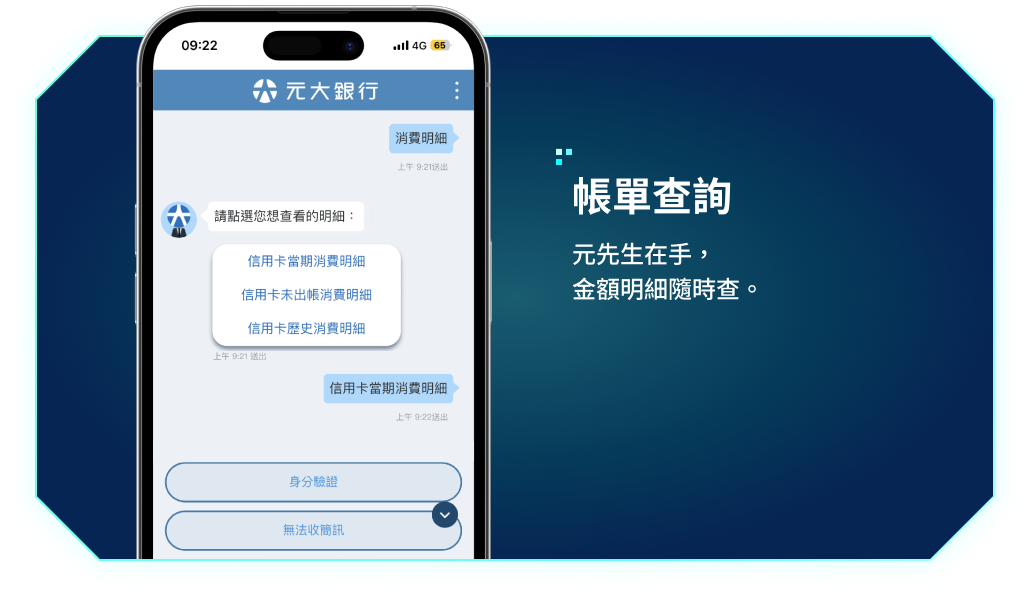
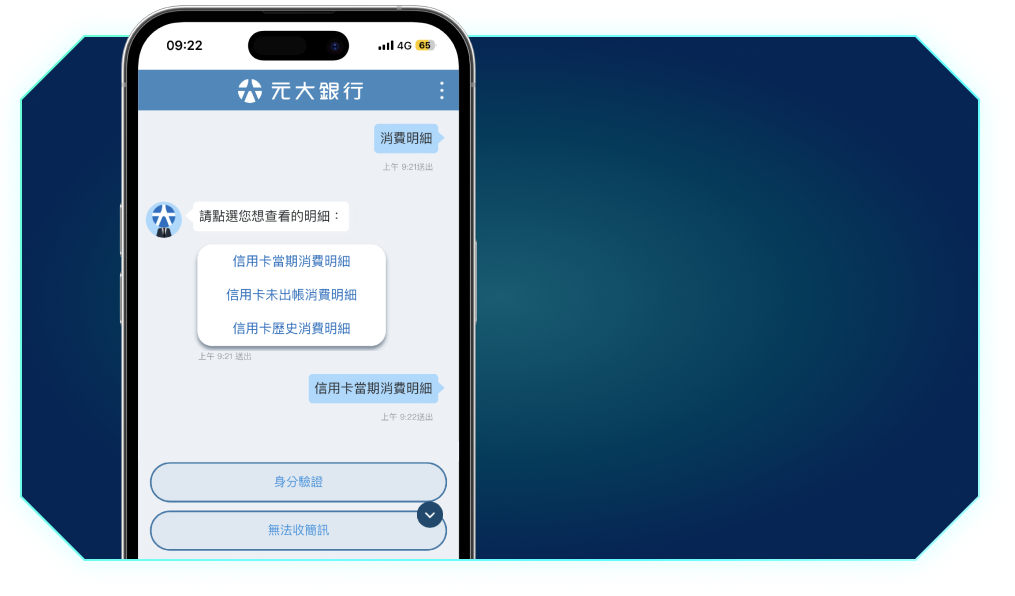
更新
解決banner的對齊問題

diff --git a/sample04/assets/css/style.css b/sample04/assets/css/style.css
@@ -2,13 +2,14 @@
 
 .banner{
     width:100%;
-    height:100vh;
-    background-image:url(../images/banner/KV\ Background_1440.png);
-    background-size: cover;
+    height:60vw;
+    background-image:url(../images/banner/KV\ Background_1440b.png);
+    background-size: 100% 100%;
     background-repeat: no-repeat;
     background-position: center;
     display: flex;
 }
+
 .aaa{
     height:300px;
     /* background-color: #C30; */
@@ -18,7 +19,7 @@
     background-color: #007fe0;
 }
 .block_agent{
-    display: flex;
+    display: none;
     justify-content: center;
     position: absolute;
     left: 50%;
@@ -71,8 +72,8 @@
     background-size: contain;
     background-repeat: no-repeat ;
     background-position: center;
-    width: 600px;
-    height: 700px;
+    width: 700px;
+    height: 800px;
 }
 .boss > .bossBackground{
     display: flex;
@@ -112,7 +113,6 @@
 .serviceA_MenuButton > a{
     width: 100%;
     height:60px;
-    color:#fff;
 }
 .serviceA_MenuButton > a:nth-child(1){
     background-image: url(../images/button/sectionA_1_default.png);
@@ -346,10 +346,33 @@
 
 /* update end */
 @media screen and (min-width: 1024px) {
-   
+   .agentButton{
+        display: block;
+        margin-top: 450px;
+        margin-left: 20vw;
+        width: 20vw;
+        height: 10vw;
+   }
+   .animation{
+        display: flex;
+        margin-top:450px;
+        margin-left:3vw;
+   }
+   .bossRighthand{
+        width:8vw;
+        height:6vw;
+   }
+   .bossLefthand{
+        width:8vw;
+        height:6vw;
+   }
 }
 @media screen and (max-width: 1023px) and (min-width:768px) {
+    
+    /* Block_banner */
+
     .block_agent{
+        display: flex;
         flex-direction: column;
     }
     .agent {
@@ -360,8 +383,8 @@
         display: none;
     }
     .agent > .agentPic{
-        width: 520px;
-        height: 400px;
+        width: 460px;
+        height: 370px;
     }
     .block_boss{
         margin-top:-10vh;
@@ -384,6 +407,9 @@
         width: 250px;
         height: 65px;
     }
+    .Block_service{
+        background-color: #F4FFFF;
+    }
     .buttons {
         width: 100%;
         flex-wrap: wrap; /* 允許換行 */
@@ -397,6 +423,49 @@
         background-position: bottom;
         height: 160vh;
     }
+
+    /* end Block_banner */
+
+    /* Block_service */
+    .Block_service{
+        height:950px;
+    }
+    .Block_service > .container{
+        width:100%;
+    }
+    .sectionA_MenuA{
+        background-size: contain;
+        height:800px;
+    }
+    .serviceA_MenuButton{
+        flex-direction: column;
+        gap: 0;
+        bottom: 70px;
+    }
+    .serviceA_MenuButton > a {
+        height:90px;
+    }
+    .serviceA_MenuButton > a:nth-child(1){
+        background-image: url(../images/button/sectionA_1_default_long.png);
+        background-position: center;
+    }
+    .serviceA_MenuButton > a:nth-child(2){
+        background-image: url(../images/button/sectionA_2_default_long.png);
+        background-position: center;
+    }
+    .serviceA_MenuButton > a:nth-child(3){
+        background-image: url(../images/button/sectionA_3_default_long.png);
+        background-position: center;
+    }
+    .serviceA_MenuButton > a:nth-child(4){
+        background-image: url(../images/button/sectionA_4_default_long.png);
+        background-position: center;
+    }
+    .serviceA_MenuButton > a:nth-child(5){
+        background-image: url(../images/button/sectionA_5_default_long.png);
+        background-position: center;
+    }
+    /* end Block_service */
     .content {
         margin-top:100px;
     }
@@ -409,6 +478,7 @@
     }
 }
 @media screen and (max-width: 767px){
+    /* Block_banner */
     .block_agent{
         flex-direction: column;
     }
@@ -429,6 +499,9 @@
     .boss {
         margin-top: -12vh;
     }
+    .Block_service{
+        background-color: #F4FFFF;
+    }
     .buttons {
         width: 100%;
         flex-wrap: wrap; /* 允許換行 */
@@ -438,9 +511,52 @@
         margin-bottom: 10px; /* 下方間距 */
     }
     .banner{
-        background-image: url(../images/banner/KV\ Background_767.png);
+        background-image: url(../images/banner/KV\ Background_768.png);
         background-position: bottom;
     }
+    /* end Block_banner */
+
+    /* Block_service */
+    .Block_service{
+        height:950px;
+    }
+    .Block_service > .container{
+        width:100%;
+    }
+    .sectionA_MenuA{
+        background-size: contain;
+        height:800px;
+    }
+    .serviceA_MenuButton{
+        flex-direction: column;
+        gap: 0;
+        bottom: 125px;
+    }
+    .serviceA_MenuButton > a {
+        height:75px;
+    }
+    .serviceA_MenuButton > a:nth-child(1){
+        background-image: url(../images/button/sectionA_1_default_long.png);
+        background-position: center;
+    }
+    .serviceA_MenuButton > a:nth-child(2){
+        background-image: url(../images/button/sectionA_2_default_long.png);
+        background-position: center;
+    }
+    .serviceA_MenuButton > a:nth-child(3){
+        background-image: url(../images/button/sectionA_3_default_long.png);
+        background-position: center;
+    }
+    .serviceA_MenuButton > a:nth-child(4){
+        background-image: url(../images/button/sectionA_4_default_long.png);
+        background-position: center;
+    }
+    .serviceA_MenuButton > a:nth-child(5){
+        background-image: url(../images/button/sectionA_5_default_long.png);
+        background-position: center;
+    }
+    /* end Block_service */
+
     .content {
         margin-top:100px;
     }
@@ -453,6 +569,7 @@
     }
 }
 @media screen and (max-width: 345px){
+    /* Block_banner */
     .block_agent{
         flex-direction: column;
     }
@@ -477,6 +594,9 @@
         width:100%;
         flex-wrap: wrap; /* 允許換行 */
     }
+    .Block_service{
+        background-color: #F4FFFF;
+    }
     .buttons a {
         flex: 0 0 calc(50% - 10px); /* 每個按鈕佔50%的寬度，減去間距 */
         margin-bottom: 10px; /* 下方間距 */
@@ -484,6 +604,24 @@
     .banner{
         background-image: url(../images/banner/KV\ Background_767.png);
     }
+    /* end Block_banner */
+
+    /* Block_service */
+    .Block_service > .container{
+        width:100%;
+    }
+    .sectionA_MenuA{
+        background-size: contain;
+        height:800px;
+    }
+    .serviceA_MenuButton{
+        flex-direction: column;
+    }
+    .serviceA_MenuButton > a {
+        height:90px;
+    }
+    /* end Block_service */
+
     .content {
         margin-top:100px;
     }

diff --git a/sample04/sample.html b/sample04/sample.html
@@ -1,0 +1,86 @@
+<div class="div">
+    <div class="div-2">
+      <div class="div-3">
+        <img
+          loading="lazy"
+          srcset="https://cdn.builder.io/api/v1/image/assets/TEMP/c96ed54e53e0876f28838578a2fbb44f6761e02defe20ac6d9c3631674646ff0?apiKey=e863f3c9881649f48745116497ca10e3&width=100 100w, https://cdn.builder.io/api/v1/image/assets/TEMP/c96ed54e53e0876f28838578a2fbb44f6761e02defe20ac6d9c3631674646ff0?apiKey=e863f3c9881649f48745116497ca10e3&width=200 200w, https://cdn.builder.io/api/v1/image/assets/TEMP/c96ed54e53e0876f28838578a2fbb44f6761e02defe20ac6d9c3631674646ff0?apiKey=e863f3c9881649f48745116497ca10e3&width=400 400w, https://cdn.builder.io/api/v1/image/assets/TEMP/c96ed54e53e0876f28838578a2fbb44f6761e02defe20ac6d9c3631674646ff0?apiKey=e863f3c9881649f48745116497ca10e3&width=800 800w, https://cdn.builder.io/api/v1/image/assets/TEMP/c96ed54e53e0876f28838578a2fbb44f6761e02defe20ac6d9c3631674646ff0?apiKey=e863f3c9881649f48745116497ca10e3&width=1200 1200w, https://cdn.builder.io/api/v1/image/assets/TEMP/c96ed54e53e0876f28838578a2fbb44f6761e02defe20ac6d9c3631674646ff0?apiKey=e863f3c9881649f48745116497ca10e3&width=1600 1600w, https://cdn.builder.io/api/v1/image/assets/TEMP/c96ed54e53e0876f28838578a2fbb44f6761e02defe20ac6d9c3631674646ff0?apiKey=e863f3c9881649f48745116497ca10e3&width=2000 2000w, https://cdn.builder.io/api/v1/image/assets/TEMP/c96ed54e53e0876f28838578a2fbb44f6761e02defe20ac6d9c3631674646ff0?apiKey=e863f3c9881649f48745116497ca10e3&"
+          class="img"
+        />
+        <div class="div-4">
+          <img
+            loading="lazy"
+            src="https://cdn.builder.io/api/v1/image/assets/TEMP/cd5fc0cef36cfe111a390f932528fe37284925f00d0384b4d53a279df5577da1?apiKey=e863f3c9881649f48745116497ca10e3&"
+            class="img-2"
+          />
+          <img
+            loading="lazy"
+            src="https://cdn.builder.io/api/v1/image/assets/TEMP/1c6a73b195d3acfe59c29fe760450d105838707a411bfd6bc8796934550cf7fe?apiKey=e863f3c9881649f48745116497ca10e3&"
+            class="img-3"
+          />
+        </div>
+      </div>
+    </div>
+    <img
+      loading="lazy"
+      src="https://cdn.builder.io/api/v1/image/assets/TEMP/ef99ed51883491086402c9d2bb95db47f9266cab8248cf4e882bcf9db8319143?apiKey=e863f3c9881649f48745116497ca10e3&"
+      class="img-4"
+    />
+    </div>
+    <style>
+    .div {
+      display: flex;
+      max-width: 360px;
+      flex-direction: column;
+    }
+    .div-2 {
+      justify-content: center;
+      background-color: #fff;
+      display: flex;
+      width: 100%;
+      flex-direction: column;
+    }
+    .div-3 {
+      display: flex;
+      flex-direction: column;
+      overflow: hidden;
+      position: relative;
+      aspect-ratio: 6.21;
+      width: 100%;
+      align-items: start;
+      justify-content: center;
+      padding: 16px;
+    }
+    .img {
+      position: absolute;
+      inset: 0;
+      height: 100%;
+      width: 100%;
+      object-fit: cover;
+      object-position: center;
+    }
+    .div-4 {
+      position: relative;
+      display: flex;
+      gap: 16px;
+    }
+    .img-2 {
+      aspect-ratio: 4.76;
+      object-fit: auto;
+      object-position: center;
+      width: 123px;
+      max-width: 100%;
+    }
+    .img-3 {
+      aspect-ratio: 8.33;
+      object-fit: auto;
+      object-position: center;
+      width: 69px;
+      margin: auto 0;
+    }
+    .img-4 {
+      aspect-ratio: 0.64;
+      object-fit: auto;
+      object-position: center;
+      width: 100%;
+    }
+    </style>

diff --git a/sample04/index.html b/sample04/index.html
@@ -97,10 +97,9 @@
                             </div>
                             <div class="block_boss">
                                 <div class="boss">
-                                    <div class="bossBackground"> 
-                                        <div class="bossRighthand"></div>
-                                        <div class="bossLefthand"></div>
-                                    </div>
+                                    <img class="bossRighthand" src="images/common/boss_rightHand.png" alt="">
+                                    <!-- <div class="bossRighthand"></div> -->
+                                    <div class="bossLefthand"></div>
                                 </div>
                                 <div class="agentButton"></div>
                             </div>  
